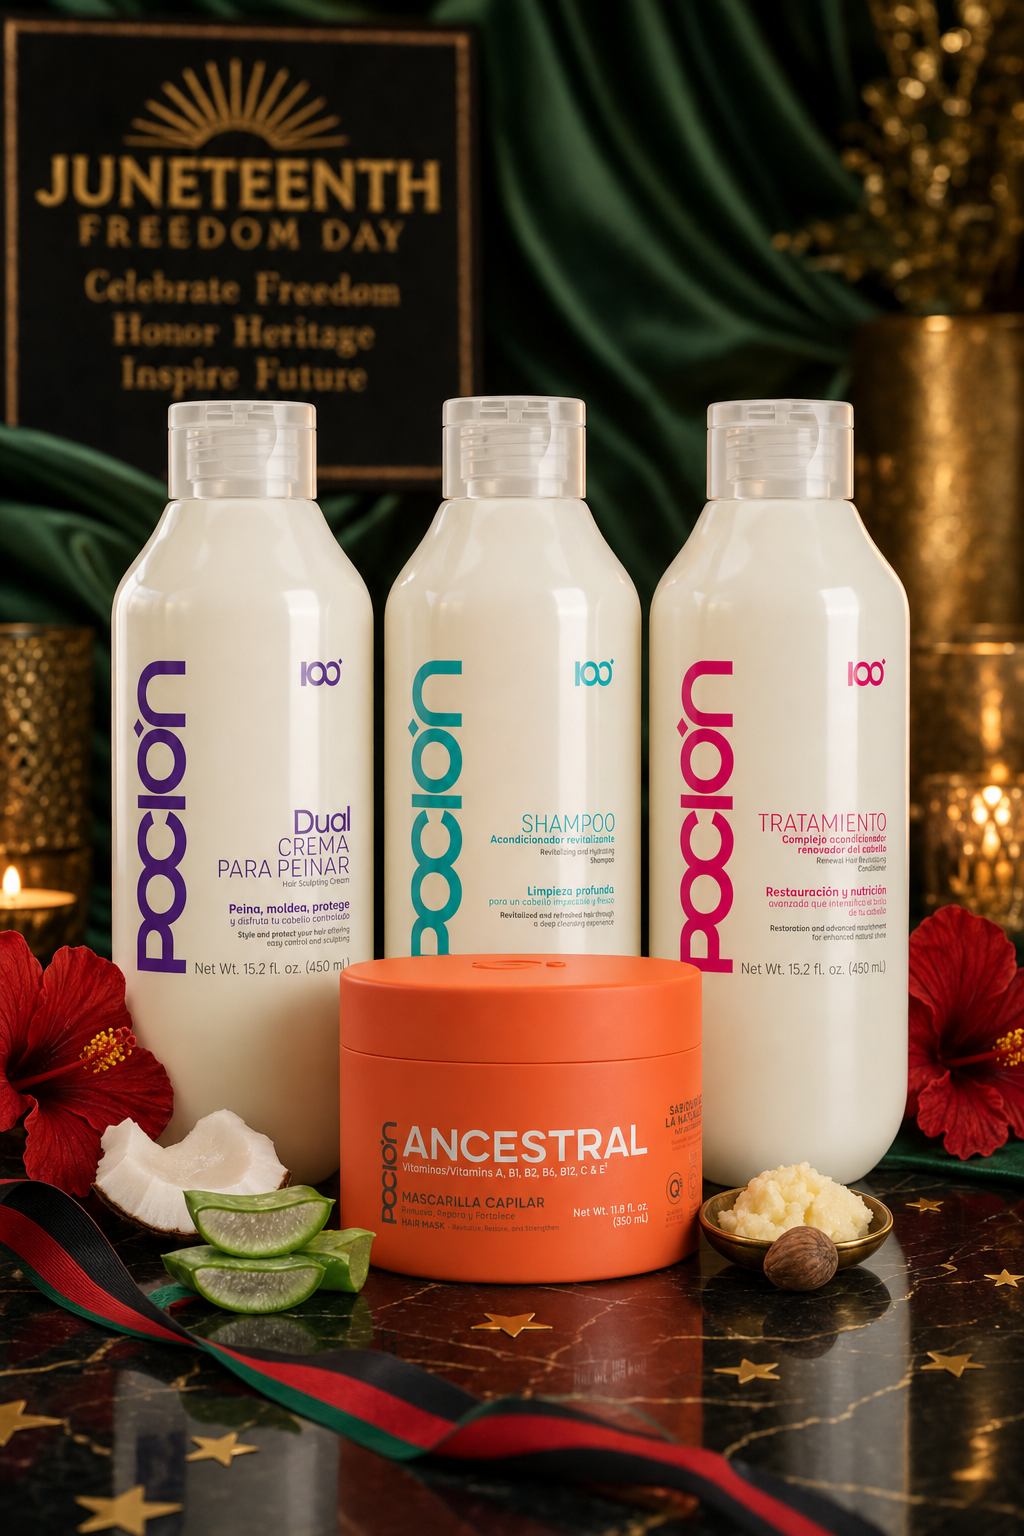
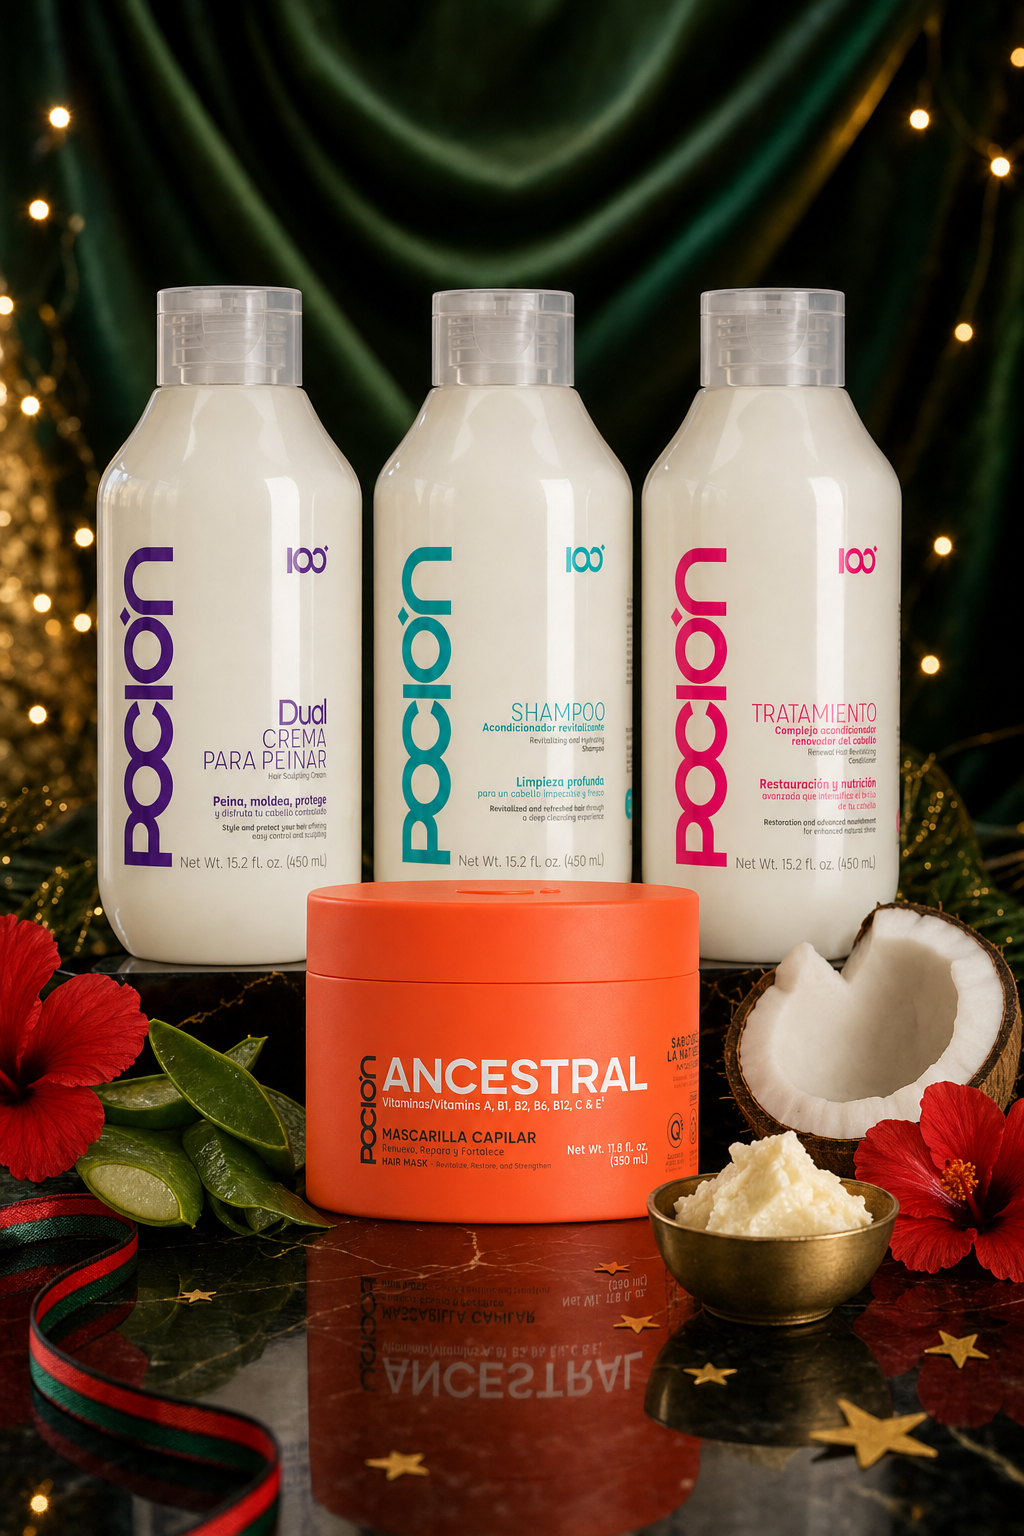
Fix Tongolé + 4-piece bottle geometry; remove emoji floats; next-order offer
Regenerated both kit shots with the official lapocion.com kit composites
as geometry truth — slim 3:1 bottles, correct caps and tub scale, crisp
labels. Removed hero emoji floats; email popup/capture now offer a 10%
code for the NEXT order, valid after the Freedom Day sale.

diff --git a/index.html b/index.html
@@ -121,10 +121,6 @@ footer .logo img{height:28px;filter:brightness(0) invert(.92)}
 .hero-rate small{display:block;font-weight:400;font-size:.76rem;color:#A9BBAF}
 .hero-banner{display:none}
 .hero-banner img{display:block;width:100%;height:auto}
-/* floating parallax stars */
-.par{position:absolute;z-index:1;font-size:1.4rem;opacity:.9;pointer-events:none;animation:float 7s ease-in-out infinite;will-change:transform;filter:drop-shadow(0 6px 14px rgba(0,0,0,.35))}
-.par.s2{animation-delay:1.6s}.par.s3{animation-delay:3.1s}.par.s4{animation-delay:4.5s}
-@keyframes float{0%,100%{margin-top:0}50%{margin-top:-16px}}
 @media(max-width:860px){
   .hero{background:
     radial-gradient(120% 90% at 50% -10%,rgba(233,196,106,.18),transparent 55%),
@@ -135,7 +131,6 @@ footer .logo img{height:28px;filter:brightness(0) invert(.92)}
   .hero .sub{margin-inline:auto}
   .hero-banner{display:block;max-width:560px;margin:18px auto 0;border-radius:var(--r);overflow:hidden;box-shadow:var(--shadow-sm)}
   .hero-banner img{width:100%;aspect-ratio:1.25;object-fit:cover;object-position:72% center}
-  .par{display:none}
 }
 
 /* ---------- TRUST BAR ---------- */
@@ -515,7 +510,7 @@ footer .pay{background:transparent;border-color:rgba(233,196,106,.25);color:#A89
 }
 @media(prefers-reduced-motion:reduce){
   .reveal{opacity:1;transform:none;transition:none}
-  .par,.hero h1 em{animation:none}
+  .hero h1 em{animation:none}
   #fx,#spot{display:none}
 }
 </style>
@@ -548,10 +543,6 @@ footer .pay{background:transparent;border-color:rgba(233,196,106,.25);color:#A89
 
 <!-- HERO -->
 <section class="hero">
-  <span class="par" style="top:10%;left:4%" data-depth="30">✨</span>
-  <span class="par s2" style="top:58%;left:3%" data-depth="18">⭐</span>
-  <span class="par s3" style="top:12%;left:58%" data-depth="26">✨</span>
-  <span class="par s4" style="top:7%;right:6%" data-depth="14">⭐</span>
   <div class="wrap hero-grid">
     <div class="hero-copy">
       <span class="eyebrow">★ Juneteenth Freedom Day Sale · June 17–19 ★</span>
@@ -681,7 +672,7 @@ footer .pay{background:transparent;border-color:rgba(233,196,106,.25);color:#A89
       <!-- KIT 1 · TONGOLÉ (Crown Jewel) -->
       <article class="kit reveal" id="kit-t">
         <div class="kit-media"><div class="kit-badge">★ The Crown Jewel</div><div class="kit-num">01</div>
-          <div class="tilt"><img src="images/lux/kit-tongole.png?v=g1" alt="Tongolé Curl Reconstruction Ritual"><div class="glare"></div></div></div>
+          <div class="tilt"><img src="images/lux/kit-tongole.png?v=g2" alt="Tongolé Curl Reconstruction Ritual"><div class="glare"></div></div></div>
         <div class="kit-body">
           <span class="kit-tagline">for curls, coils &amp; waves</span>
           <h3>Tongolé Curl Ritual</h3>
@@ -743,7 +734,7 @@ footer .pay{background:transparent;border-color:rgba(233,196,106,.25);color:#A89
       <!-- KIT 3 · 4-PIECE -->
       <article class="kit reveal" id="kit-4">
         <div class="kit-media"><div class="kit-badge">Strength &amp; Growth</div><div class="kit-num">03</div>
-          <div class="tilt"><img src="images/lux/kit-4piece.png?v=g1" alt="4-Piece Strength & Growth Ritual"><div class="glare"></div></div></div>
+          <div class="tilt"><img src="images/lux/kit-4piece.png?v=g2" alt="4-Piece Strength & Growth Ritual"><div class="glare"></div></div></div>
         <div class="kit-body">
           <span class="kit-tagline">the daily devotion</span>
           <h3>4-Piece Strength &amp; Growth</h3>
@@ -987,13 +978,13 @@ footer .pay{background:transparent;border-color:rgba(233,196,106,.25);color:#A89
 <section class="capture" id="capture">
   <div class="wrap">
     <p class="kicker">Before you go</p>
-    <h2>Unlock an extra <em>10% off</em> your first ritual</h2>
-    <p>Join the list for your code, hair tips, and first dibs on new drops. No spam, just good hair.</p>
+    <h2>Get <em>10% off</em> your next order</h2>
+    <p>Today's Freedom Day price is already applied automatically — no code needed. Join the list and we'll send you a 10% code for your <b>next order</b>, valid after the sale ends. Plus hair tips and first dibs on new drops.</p>
     <form class="capform" id="capform" novalidate>
       <input type="email" id="capemail" placeholder="you@email.com" autocomplete="email" required>
       <button type="submit" class="btn aqua">Send my 10% code</button>
     </form>
-    <div class="cap-done" id="capdone">🎉 You're in! Check your inbox for your 10% code.</div>
+    <div class="cap-done" id="capdone">🎉 You're in! Your 10% next-order code is on its way — valid after the Freedom Day sale.</div>
     <p class="cap-note">By signing up you agree to receive marketing emails. Unsubscribe anytime.</p>
   </div>
 </section>
@@ -1016,9 +1007,9 @@ footer .pay{background:transparent;border-color:rgba(233,196,106,.25);color:#A89
         <p style="margin-top:8px;max-width:34ch">Colombia's #1 hair ritual, now shipping across the USA. Made with love. 🇨🇴</p>
       </div>
       <div class="foot-col"><h5>Shop</h5>
-        <a href="#kit-t" class="foot-shop"><img src="images/lux/kit-tongole.png?v=g1" alt="">Tongolé Curls</a>
+        <a href="#kit-t" class="foot-shop"><img src="images/lux/kit-tongole.png?v=g2" alt="">Tongolé Curls</a>
         <a href="#kit-5" class="foot-shop"><img src="images/lux/kit-5piece.png?v=g1" alt="">Deep Repair</a>
-        <a href="#kit-4" class="foot-shop"><img src="images/lux/kit-4piece.png?v=g1" alt="">Strength &amp; Growth</a>
+        <a href="#kit-4" class="foot-shop"><img src="images/lux/kit-4piece.png?v=g2" alt="">Strength &amp; Growth</a>
         <a href="#kit-b8" class="foot-shop"><img src="images/lux/kit-b8.png?v=g1" alt="">B8 Infinite Shine</a>
         <a href="#kit-k" class="foot-shop"><img src="images/lux/kit-kids.png?v=g1" alt="">Kids Tangle-Free</a>
       </div>
@@ -1061,13 +1052,13 @@ footer .pay{background:transparent;border-color:rgba(233,196,106,.25);color:#A89
   <div class="popup">
     <button class="px" id="popx" aria-label="Close">×</button>
     <div class="pk">★ for Freedom Day ★</div>
-    <h3>Take <em>10% off</em> your first ritual</h3>
-    <p>Enter your email and we'll send your code right now — just in time for Juneteenth.</p>
+    <h3>Take <em>10% off</em> your next order</h3>
+    <p>Today's sale price is already applied automatically. Enter your email and we'll send a 10% code for your <b>next order</b> — valid after the Freedom Day sale ends.</p>
     <form class="capform" id="popform" novalidate>
       <input type="email" id="popemail" placeholder="you@email.com" autocomplete="email" required>
       <button type="submit" class="btn aqua">Get my 10% code</button>
     </form>
-    <div class="cap-done" id="popdone">🎉 You're in! Check your inbox for your code.</div>
+    <div class="cap-done" id="popdone">🎉 You're in! Your 10% next-order code is on its way.</div>
     <p class="cap-note">No spam. Unsubscribe anytime.</p>
   </div>
 </div>
@@ -1098,7 +1089,7 @@ function track(ev,data){ if(window.fbq){ fbq('track',ev,data); } console.log('[t
 /* ===================== CART + UPSELLS ===================== */
 var SHIP_FREE=50;
 var IMG={
-  'B0DSGYPPD7':'images/lux/kit-5piece.png?v=g1','B0DCYQV7XJ':'images/lux/kit-4piece.png?v=g1','B0DCZ1SLJK':'images/lux/kit-tongole.png?v=g1','B0DCZ64HBD':'images/lux/kit-b8.png?v=g1','B0FV7VB3TW':'images/lux/kit-kids.png?v=g1',
+  'B0DSGYPPD7':'images/lux/kit-5piece.png?v=g1','B0DCYQV7XJ':'images/lux/kit-4piece.png?v=g2','B0DCZ1SLJK':'images/lux/kit-tongole.png?v=g2','B0DCZ64HBD':'images/lux/kit-b8.png?v=g1','B0FV7VB3TW':'images/lux/kit-kids.png?v=g1',
   'ADDON-BOOSTER':'images/upsell/booster.webp','ADDON-TERMO':'images/upsell/termoprotector.webp','ADDON-OIL':'images/upsell/b8oil.png','ADDON-R3START':'images/upsell/r3start.png'
 };
 var ADDONS=[
@@ -1120,7 +1111,7 @@ function closeCart(){cartEl.classList.remove('show');cartOv.classList.remove('sh
 function toast(msg){var t=document.getElementById('toast');t.textContent=msg;t.classList.add('show');clearTimeout(t._h);t._h=setTimeout(function(){t.classList.remove('show');},2200);}
 function addToCart(id,name,price,sub){
   var ex=cart.find(function(i){return i.id===id;});
-  if(ex){ex.qty++;} else {cart.push({id:id,name:name,sub:sub||'',price:price,qty:1,img:IMG[id]||'images/lux/kit-tongole.png?v=g1'});}
+  if(ex){ex.qty++;} else {cart.push({id:id,name:name,sub:sub||'',price:price,qty:1,img:IMG[id]||'images/lux/kit-tongole.png?v=g2'});}
   track('AddToCart',{content_name:name,content_ids:[id],value:price,currency:'USD',content_type:'product'});
   renderCart();
 }
@@ -1420,23 +1411,6 @@ if(FINE&&!REDUCED)document.querySelectorAll('.magnet').forEach(function(b){
   b.addEventListener('mouseleave',function(){b.style.transform='';});
 });
 
-/* ----- hero parallax stars ----- */
-if(FINE&&!REDUCED)(function(){
-  var hero=document.querySelector('.hero'),els=hero.querySelectorAll('.par');
-  if(!els.length)return;
-  var raf=null,mx=0,my=0;
-  hero.addEventListener('mousemove',function(e){
-    var r=hero.getBoundingClientRect();
-    mx=(e.clientX-r.left)/r.width-.5; my=(e.clientY-r.top)/r.height-.5;
-    if(!raf){raf=requestAnimationFrame(function(){
-      els.forEach(function(el){
-        var d=parseFloat(el.dataset.depth)||15;
-        el.style.transform='translate('+(-mx*d)+'px,'+(-my*d)+'px)';
-      });
-      raf=null;
-    });}
-  },{passive:true});
-})();
 </script>
 </body>
 </html>
